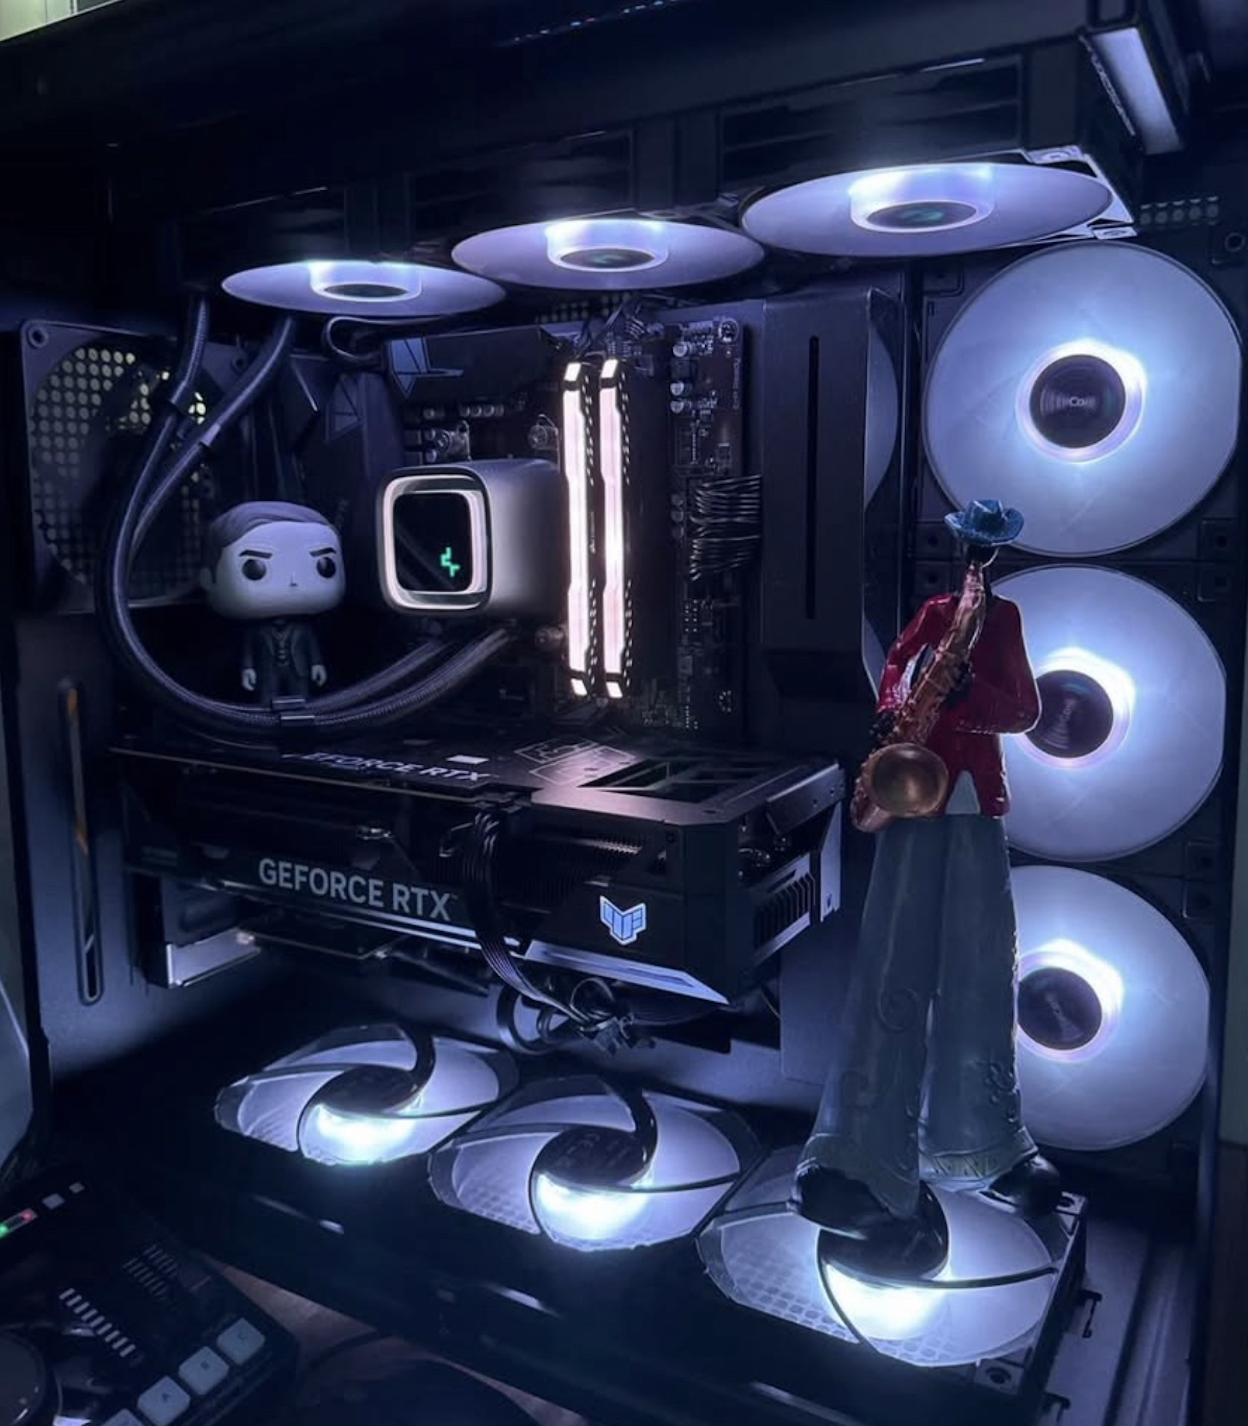
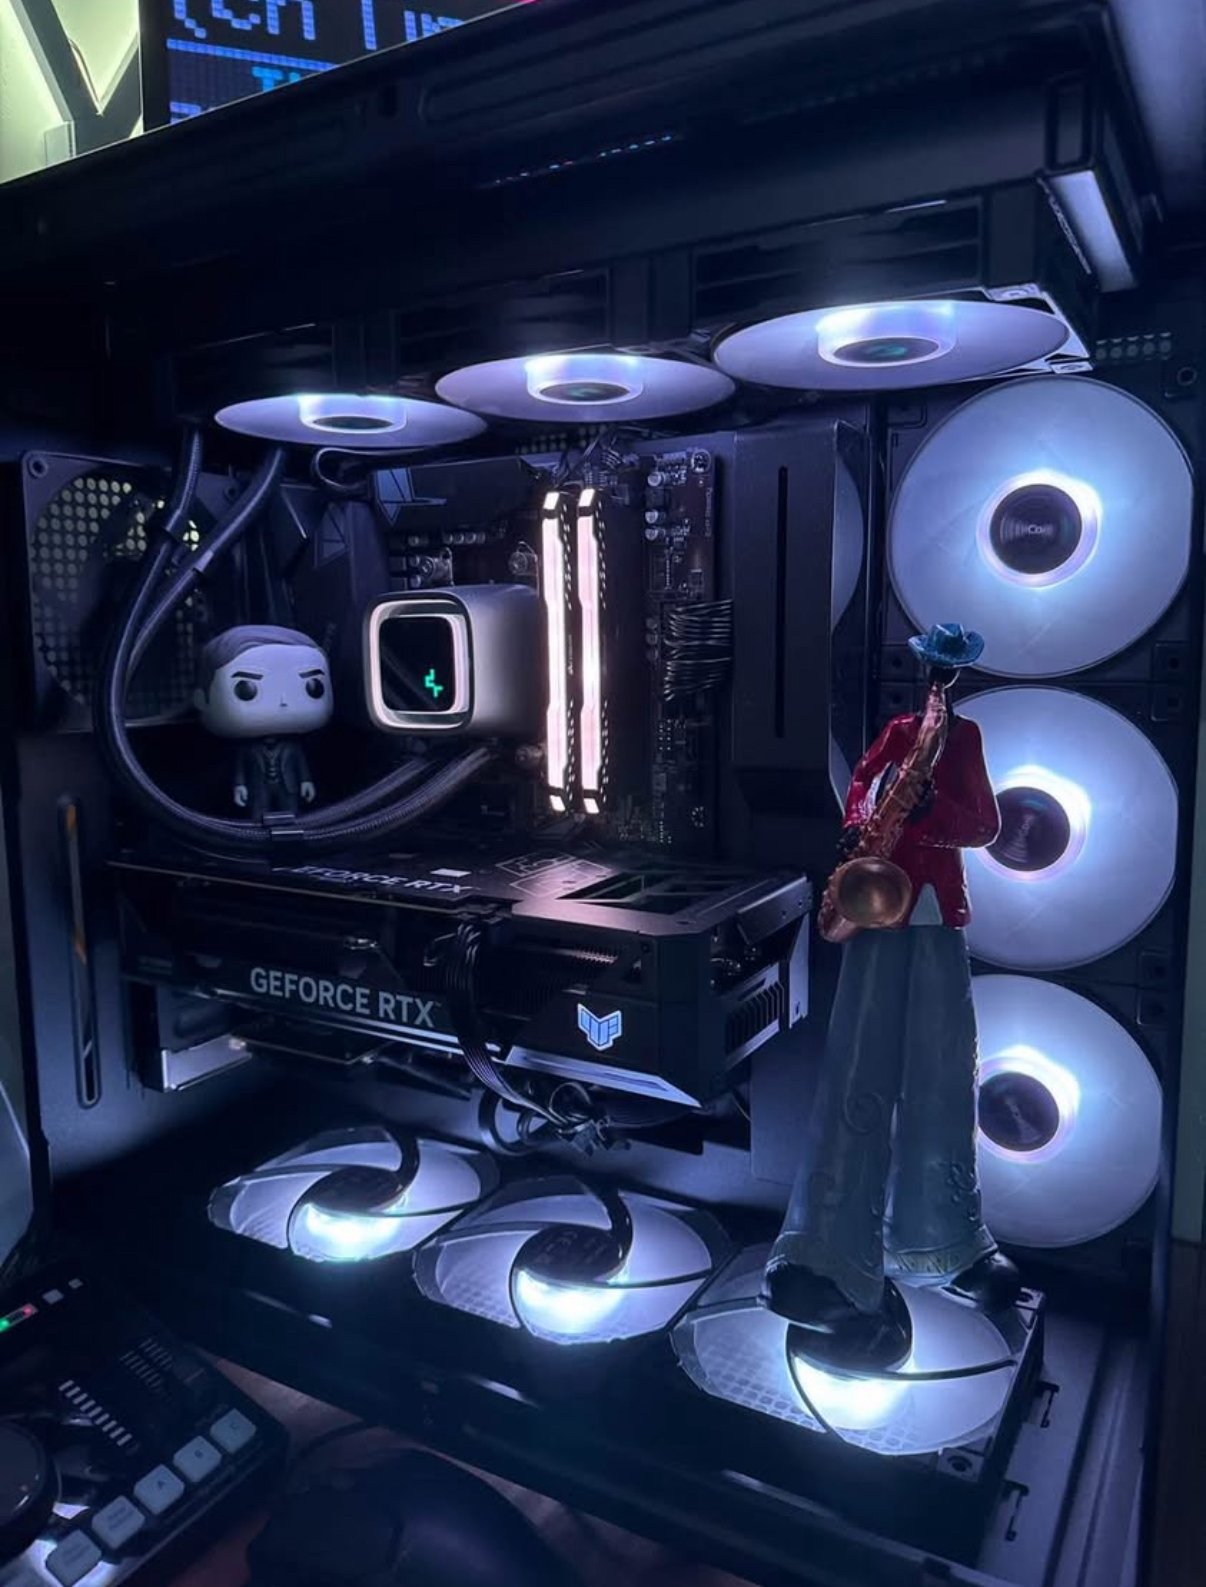
Resized Img to Aspect ratio

diff --git a/aryaspcs.HTML b/aryaspcs.HTML
@@ -6,7 +6,7 @@
     body {
         font-family: "Roboto", sans-serif;
         font-optical-sizing: auto;
-        font-weight: 400; 
+        font-weight: 500; 
         font-style: normal;
         font-variation-settings: "wdth" 100;
         text-align: center; 
@@ -38,11 +38,15 @@
         }
         .pc-box img {
             width: 100%;
-            height: auto;
+            height: 350px;      
+            object-fit: cover;   
+            border-bottom: 2px solid #406628; 
+            margin-bottom: 15px;
+        
         }
         .section {
             padding: 50px 20px;
-            border-top: 1px solid #efeeee;
+            border-top: 2px solid #406628;
         }
     </style>
 </head>
@@ -68,7 +72,7 @@
             
             <div class="pc-box">
                 <img src="5070.jpeg" alt="PC 1">
-                <h3>The Ultimate Tier</h3>
+                <h3>5070</h3>
                 <p>
                     • Ryzen 7 7800X3D<br>
                     • RTX 5070<br>
@@ -79,7 +83,7 @@
 
             <div class="pc-box">
                 <img src="4070.jpeg" alt="PC 2">
-                <h3>The Pro Streamer</h3>
+                <h3>4070</h3>
                 <p>
                     • Ryzen 5 5600X<br>
                     • RTX 4070<br>
@@ -90,7 +94,7 @@
 
             <div class="pc-box">
                 <img src="1080.jpeg" alt="PC 3">
-                <h3>The Starter Build</h3>
+                <h3>1080</h3>
                 <p>
                     • Ryzen 3 3700x<br>
                     • RTX 1080<br>
@@ -108,15 +112,19 @@
             Welcome to Arya's Custom PCs. We build high-performance, reliable, and custom Gaming Pcs Located in Queenstown New Zealand. These PCs are made for gaming, streaming, and workflow.
         </p>
     </div>
-
-    <div id="contact" class="section" style="background-color: black; color: white;">
-        <h2>Contact Us</h2>
-        <p>Phone: 0205674167</p>
-        <p>Email: aryaspcs@gmail.com</p>
-        <p>Address: 44 Jones Street</p>
-        <br>
-        <p>Find us on: <b>Instagram</b> | <b>TikTok</b> | <b>Facebook</b></p>
-    </div>
+    
+    <div id="contact">
+        <p>Find us on: 
+        <a href="https://classroom.google.com/u/0/h" target="_blank">
+        <img src="Insta.jpeg" alt="Instagram" style="width: 40px; height: 40px; margin: 0 20px; vertical-align: middle;">
+        </a>  
+        <a href="https://classroom.google.com/u/0/h" target="_blank">
+        <img src="Tiktok.jpeg" alt="TikTok" style="width: 40px; height: 40px; margin: 0 20px; vertical-align: middle;">
+        </a>  
+        <a href="https://classroom.google.com/u/0/h" target="_blank">
+        <img src="Facebook.jpeg" alt="Facebook" style="width: 40px; height: 40px; margin: 0 20px; vertical-align: middle;">
+    </a>
+</p>
 
 </body>
 </html>
